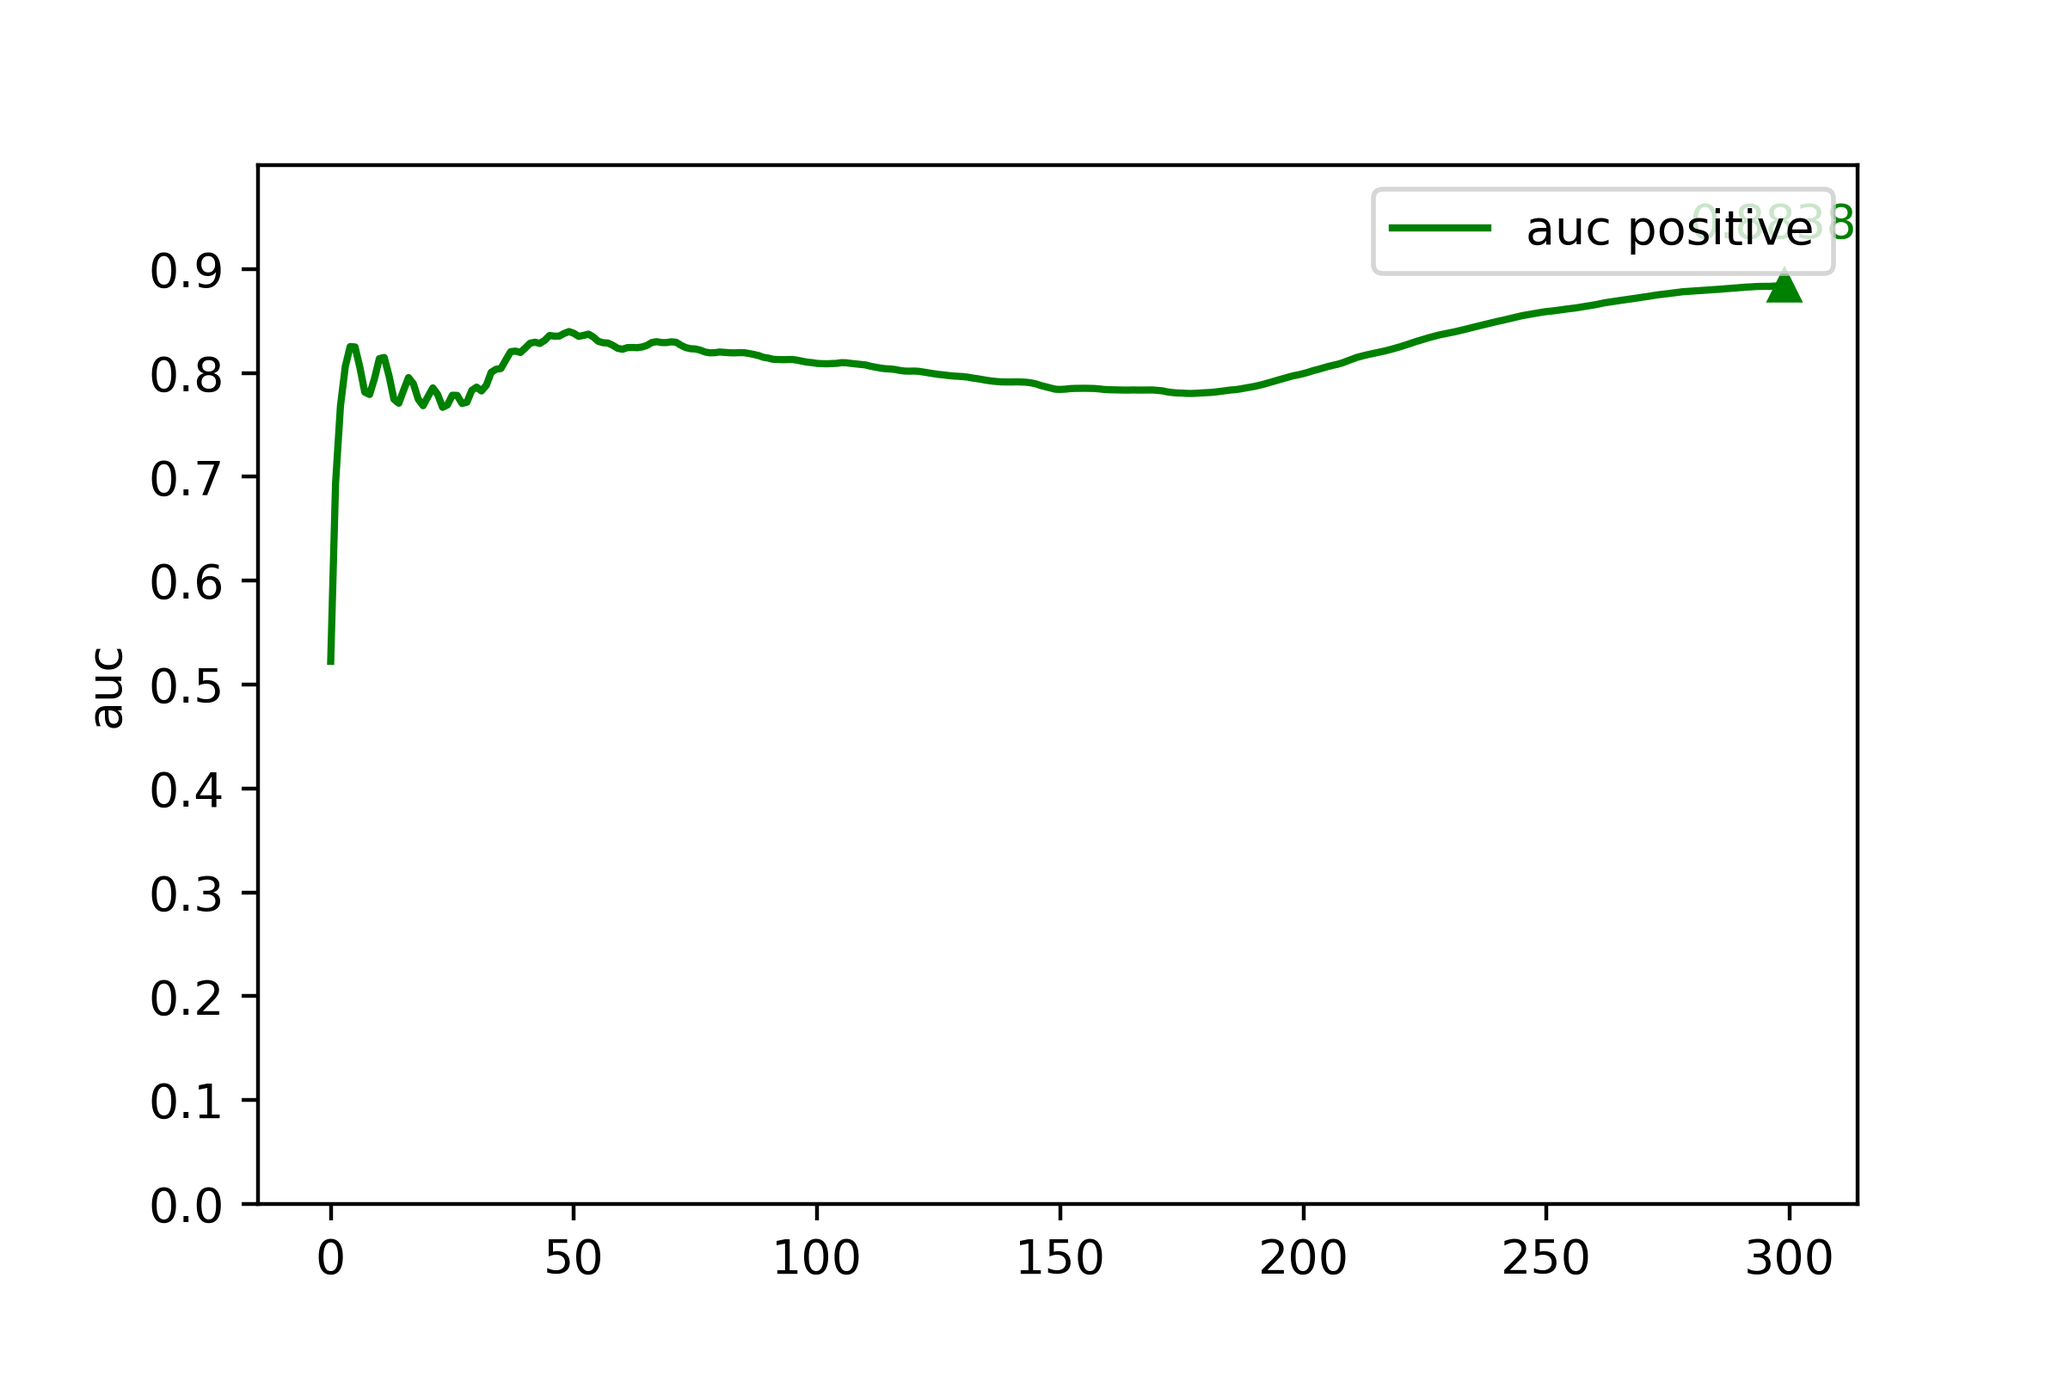
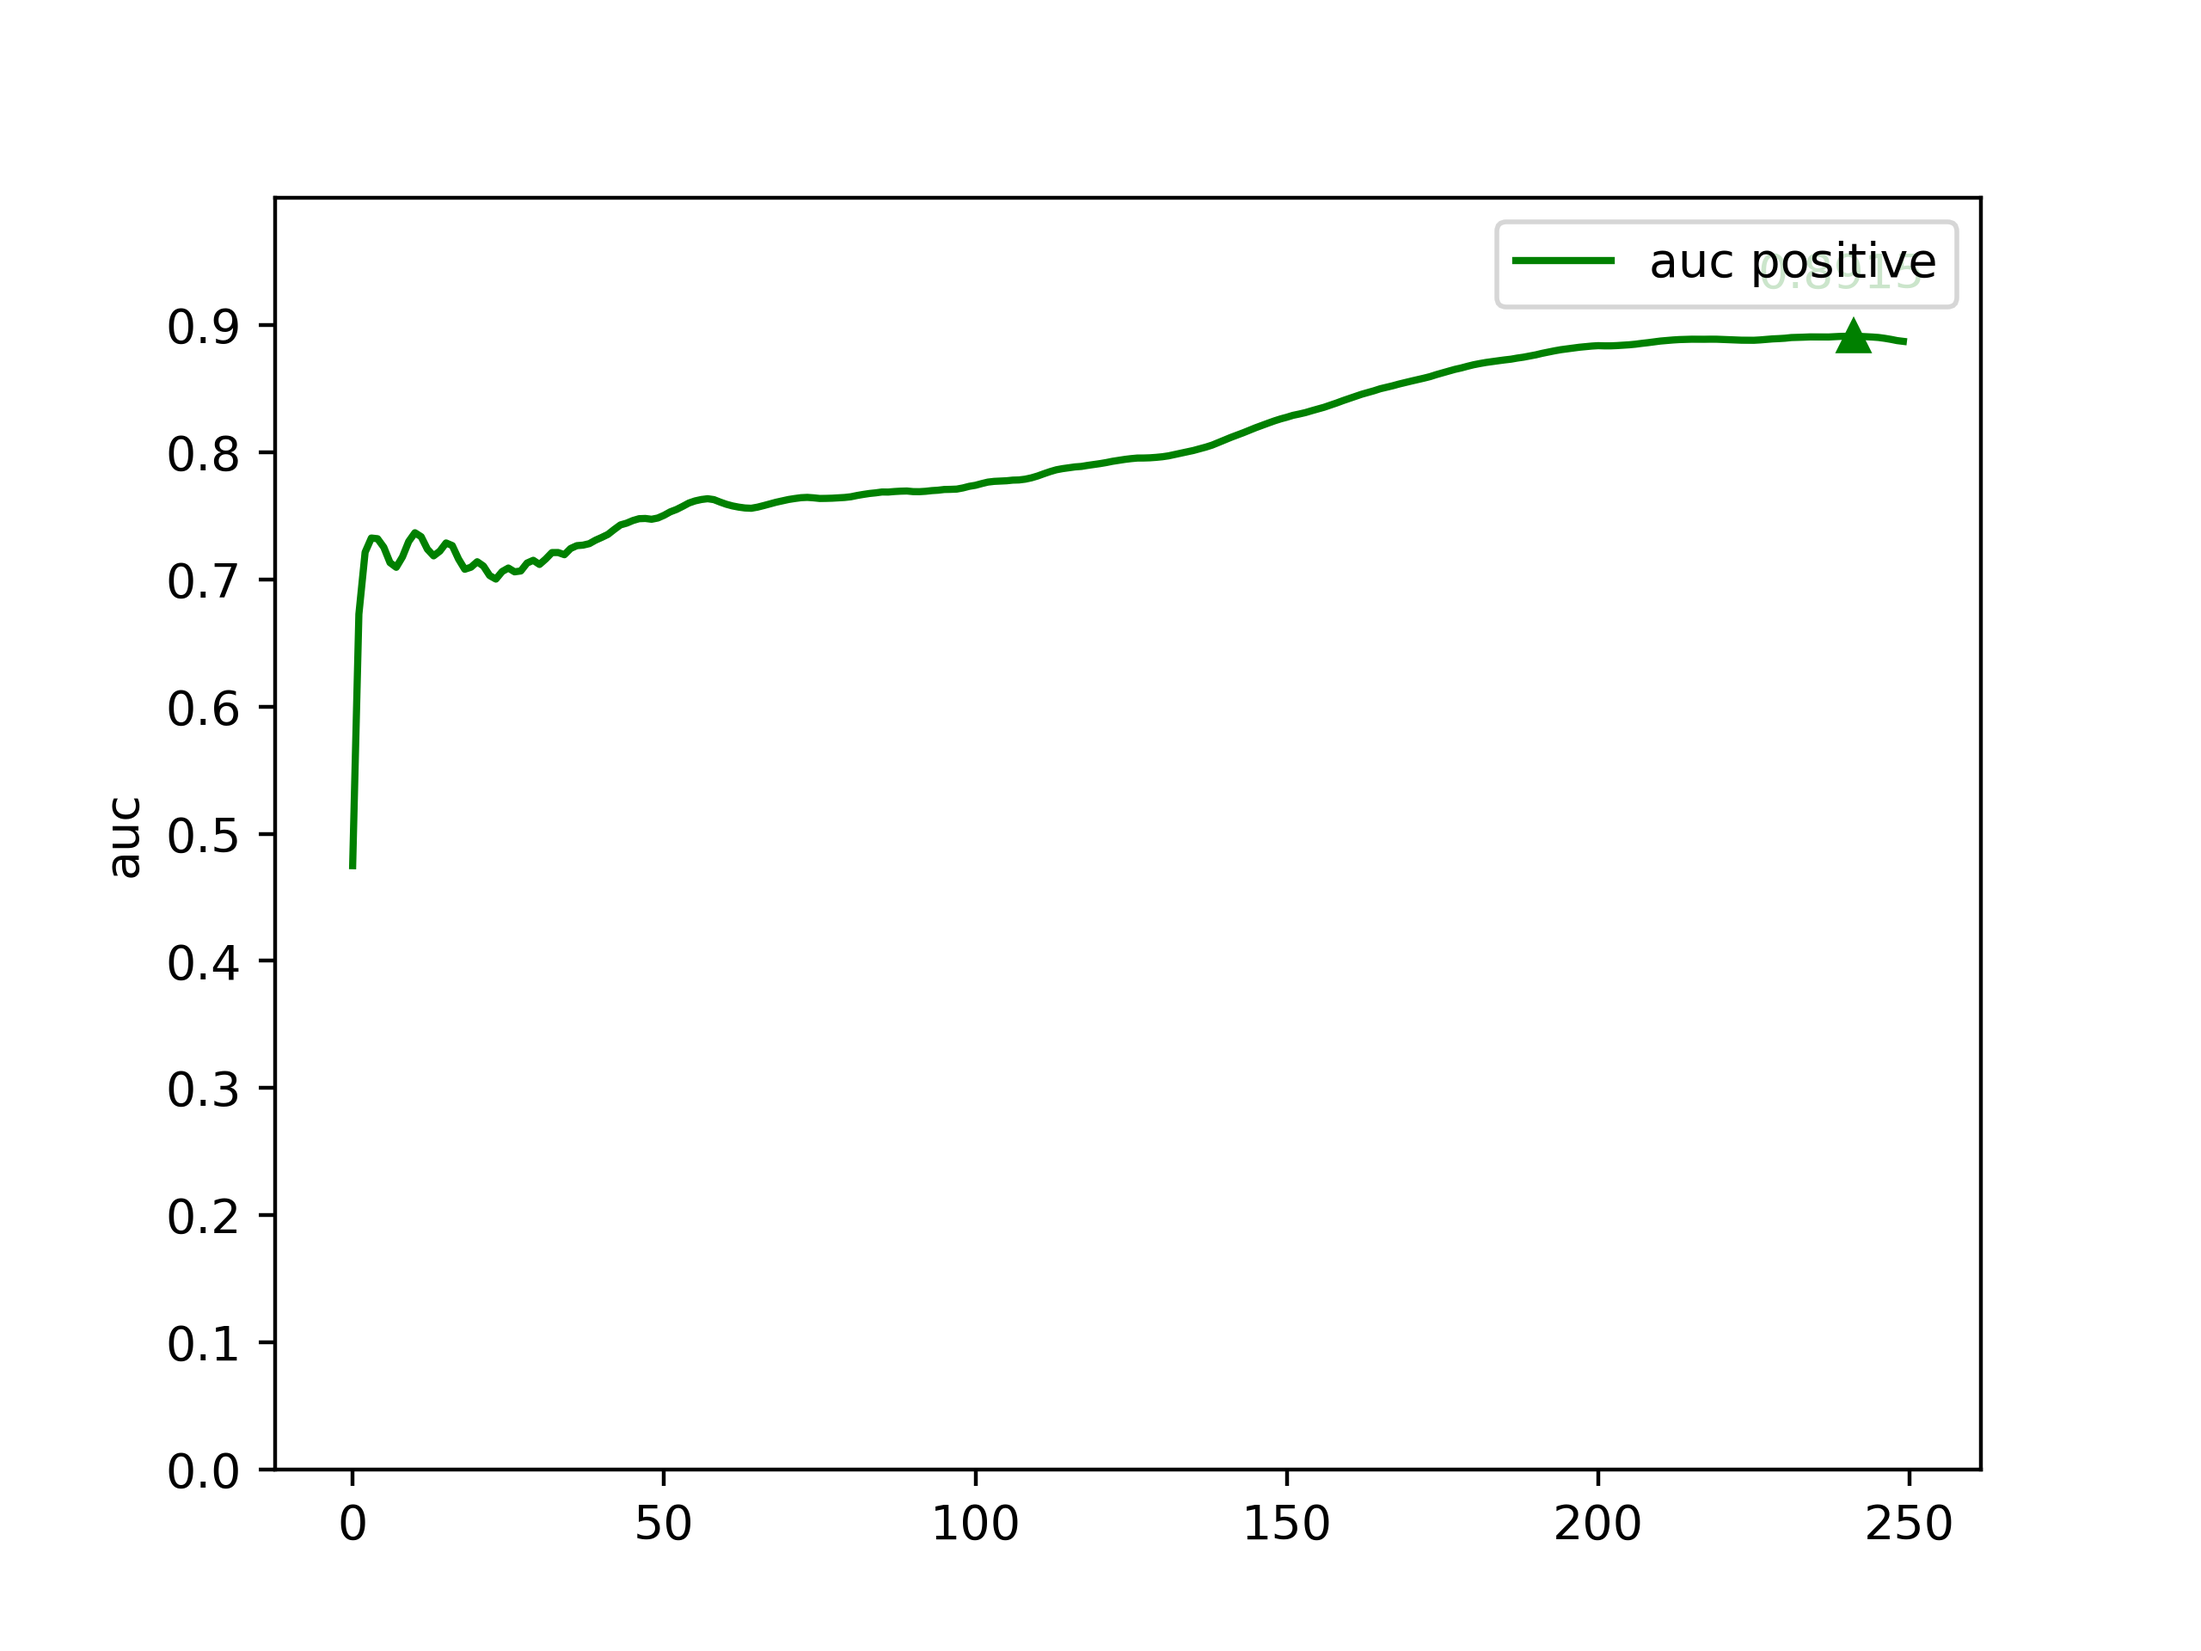
update

diff --git a/run_ggda.py b/run_ggda.py
@@ -1,0 +1,186 @@
+import time
+from sklearn.metrics import roc_auc_score
+import json
+import os
+import copy
+import argparse
+import numpy as np
+import torch
+import torch.nn as nn
+import datetime
+
+from tqdm import tqdm
+import matplotlib.pyplot as plt
+from modules.model import Model
+from modules.utils import load_dataset, draw_line, set_random_seeds, ensure_path
+
+parser = argparse.ArgumentParser(description='GGD Anomaly')
+parser.add_argument('--expid', type=str, default='test_implementation')
+parser.add_argument('--resultdir', type=str, default='results')
+parser.add_argument('--eval_freq', type=int, default=1)
+
+parser.add_argument('--dataset', type=str, default='cora')
+parser.add_argument('--device', type=str, default='cuda:0')
+parser.add_argument('--lr', type=float, default=1e-3)
+parser.add_argument('--weight_decay', type=float, default=0.0)
+
+parser.add_argument('--runs', type=int, default=1)
+parser.add_argument('--n_hidden', type=int, default=256)
+parser.add_argument('--patience', type=int, default=100)
+parser.add_argument('--num_epoch', type=int, default=250)
+
+parser.add_argument('--subgraph_size', type=int, default=1)
+parser.add_argument('--gnn_encoder', type=str, default='gcn')
+parser.add_argument('--gamma', type=float, default=0.1)
+
+args = parser.parse_args()
+
+# Setup device and random seed
+device = torch.device(args.device if torch.cuda.is_available() else 'cpu')
+torch.backends.cudnn.deterministic = True
+torch.backends.cudnn.benchmark = False
+seeds = [i + 1 for i in range(args.runs)]
+
+# Load dataset
+g, features, ano_label, _, _ = load_dataset(args.dataset)
+features = torch.FloatTensor(features).to(device)
+g = g.to(device)
+
+all_results = []
+eval_results = []
+path_expr = f'./{args.resultdir}/{args.expid}'
+ensure_path(path_expr)
+if args.eval_freq > 0:
+    path_chart = f'{path_expr}/chart'
+    ensure_path(path_chart)
+
+ensure_path(path_expr)
+for run in range(args.runs):
+    seed = seeds[run]
+    set_random_seeds(seed)
+    # Create GGD model
+    model = Model(
+        g,
+        features.shape[1],
+        args.n_hidden,
+        nn.PReLU(args.n_hidden),
+        args.gnn_encoder,
+        args.subgraph_size
+    )
+    model.cuda()
+    optimizer = torch.optim.Adam(model.parameters(),
+                                 lr=args.lr,
+                                 weight_decay=args.weight_decay)
+    b_xent = nn.BCEWithLogitsLoss()
+
+    cnt_wait = 0
+    best = 1e9
+    best_t = 0
+    best_state = None
+
+    dur = []  # training time
+    loss_list = []  # loss
+
+    tag = str(datetime.datetime.now().strftime("%m-%d %H%M%S"))
+
+    epoch_list = []
+    auc_pos_list = []
+
+    label_positive = torch.zeros(1, g.number_of_nodes()).cuda()
+    label_negative = torch.ones(1, g.number_of_nodes()).cuda()
+    with tqdm(total=args.num_epoch) as pbar:
+        pbar.set_description(f'Run {run} with random seed {seed}')
+        for epoch in range(args.num_epoch):
+            if args.eval_freq > 0 and epoch % args.eval_freq == 0:
+                model.eval()
+                with torch.no_grad():
+                    epoch_list.append(epoch)
+                    s_positive = model(features)[0]
+                    pos_prob = s_positive.detach()[0].cpu().numpy()
+                    auc_pos_list.append(roc_auc_score(ano_label, pos_prob))
+            model.train()
+            t0 = time.time()
+            optimizer.zero_grad()
+
+            s_positive, s_negative, ggd_score_pos, ggd_score_neg, perm = model(features)
+
+            loss_anomaly = b_xent(s_positive, label_positive) + b_xent(s_negative, label_negative)
+            loss_ggd = b_xent(ggd_score_pos, label_positive) + b_xent(ggd_score_neg, label_negative)
+            loss = (1 - args.gamma) * loss_anomaly + args.gamma * loss_ggd
+            loss.backward()
+
+            optimizer.step()
+            comp_time = time.time() - t0
+            dur.append(comp_time)
+            loss_list.append(
+                (loss.detach().cpu().item(), loss_anomaly.detach().cpu().item(), loss_ggd.detach().cpu().item()))
+
+            if loss < best:
+                best = loss
+                best_t = epoch
+                cnt_wait = 0
+                best_state = copy.deepcopy(model.state_dict())
+            else:
+                cnt_wait += 1
+
+            if cnt_wait == args.patience:
+                print('Early stopping!')
+                break
+            if args.eval_freq > 0:
+                auc = 0.5
+                if len(auc_pos_list) > 0:
+                    auc = auc_pos_list[-1]
+                pbar.set_postfix(auc=auc, loss=loss.item())
+            else:
+                pbar.set_postfix(loss=loss.item())
+            pbar.update(1)
+
+    if args.eval_freq > 0:
+        draw_line(plt, epoch_list, auc_pos_list, 'g', label="auc positive", max_marker="^")
+        plt.ylabel('auc')
+        plt.legend()
+        plt.ylim(0, 1)
+        plt.yticks(np.arange(0, 1, step=0.1))
+        plt.savefig(f"{path_chart}/{run}.png", dpi=400)
+        print(f"largest auc ({epoch_list[np.argmax(np.array(auc_pos_list))]}): {max(auc_pos_list)}")
+        eval_results.append((seed, epoch_list[np.argmax(np.array(auc_pos_list))], max(auc_pos_list)))
+
+    index_min_loss = np.argmin(np.array(loss_list)[:, 0])
+    model.load_state_dict(best_state)
+    model.eval()
+    with torch.no_grad():
+        s_positive = model(features)[0]
+        pos_prob = s_positive.detach()[0].cpu().numpy()
+    auc_score = roc_auc_score(ano_label, pos_prob)
+    all_results.append((seed, best_t, auc_score))
+
+    path_ckpt = f'{path_expr}/checkpoints'
+    ensure_path(path_ckpt)
+    torch.save(model.state_dict(), f'{path_ckpt}/exp_{run}.pkl')
+
+
+with open(f"{path_expr}/res_expr.csv", "w") as fp:
+    fp.write(','.join(["seed", "epoch", "auc"]) + "\n")
+    for result in all_results:
+        fp.write(','.join([str(x) for x in result]) + "\n")
+
+    all_auc = [x[2] for x in all_results]
+    mean_auc = sum(all_auc) / len(all_auc)
+    print("Mean auc score", mean_auc)
+    fp.write(','.join(["mean", "", str(mean_auc)]))
+
+# Save results
+with open(f"{path_expr}/auc={mean_auc}.txt", "w") as fp:
+    fp.write(json.dumps(vars(args), indent=2))
+
+if args.eval_freq > 0:
+    with open(f"{path_expr}/res_eval.csv", "w") as fp:
+        fp.write(','.join(["seed", "best_epoch", "auc"]) + "\n")
+        for result in eval_results:
+            fp.write(','.join([str(x) for x in result]) + "\n")
+
+        all_auc = [x[2] for x in eval_results]
+        mean_auc = sum(all_auc) / len(all_auc)
+        print("Mean best auc score", mean_auc)
+        fp.write(','.join(["mean", "", str(mean_auc)]))
+

diff --git a/modules/utils.py b/modules/utils.py
@@ -1,0 +1,38 @@
+import dgl
+import matplotlib.pyplot as plt
+import numpy as np
+import torch
+import os
+import random
+from utils import load_mat, preprocess_features
+
+def draw_line(plt, epoch_list, data_list, color, label, max_marker=None):
+    plt.plot(epoch_list, data_list, color=color, label=label)
+    if max_marker is not None:
+        max_index = np.argmax(data_list)
+        val_str = "{:.4f}".format(data_list[max_index])
+        plt.plot(epoch_list[max_index], data_list[max_index], color=color, marker=max_marker)
+        plt.annotate(val_str, xytext=(-20, 10), textcoords='offset points',
+                     xy=(epoch_list[max_index], data_list[max_index]), color=color)
+
+def load_dataset(dataset):
+    print('Dataset: {}'.format(dataset), flush=True)
+    adj, features, _, _, _, _, ano_label, str_ano_label, attr_ano_label = load_mat(dataset)
+    features, _ = preprocess_features(features)
+    src, dst = np.nonzero(adj)
+    g = dgl.graph((src, dst))
+    g = dgl.add_self_loop(g)
+    return g, features, ano_label, str_ano_label, attr_ano_label
+
+def set_random_seeds(seed):
+    dgl.random.seed(seed)
+    np.random.seed(seed)
+    torch.manual_seed(seed)
+    torch.cuda.manual_seed(seed)
+    torch.cuda.manual_seed_all(seed)
+    random.seed(seed)
+    os.environ['PYTHONHASHSEED'] = str(seed)
+
+def ensure_path(path):
+    if not os.path.exists(path):
+        os.makedirs(path)
